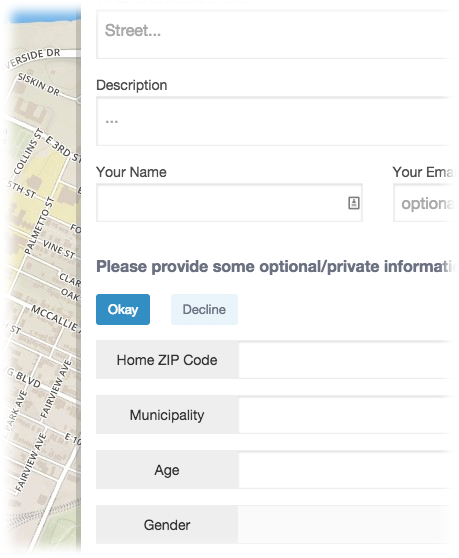
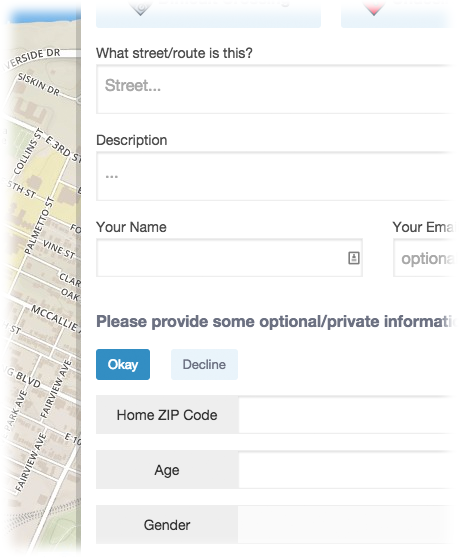
remove municipality from bike network flavor

diff --git a/bike-network-improvements/details.html b/bike-network-improvements/details.html
@@ -55,7 +55,7 @@
       <h3>Understand the rider's perspective.</h3>
       <p class="">Participants share their local knowledge and experience in descriptive freeform text.</p>
       <h3>Find out who's participating.</h3>
-      <p class="">Participants leave their name, and can optionally provide private information: email address, ZIP code, municipality, age, gender.</p>
+      <p class="">Participants leave their name, and can optionally provide private information: email address, ZIP code, age, and gender.</p>
       <div class="panel radius">
         <h5>Need to collect different info?</h5>
         <p>No problem. We can configure your form to collect exactly what you need. <a href="mailto:hello@openplans.org{# {{ settings.PLANBOX_CONTACT_EMAIL }} #}" class="open-intercom"><strong>Contact&nbsp;Us</strong></a></p>

diff --git a/bike-network-improvements/jstemplates/place-form.html b/bike-network-improvements/jstemplates/place-form.html
@@ -86,14 +86,6 @@
           </div>
           <div class="row collapse prefix-radius">
             <div class="small-3 columns">
-              <label for="private-municipality" class="prefix">Municipality</label>
-            </div>
-            <div class="small-9 columns">
-              <input type="text" name="private-municipality" id="private-municipality" pattern="\d*" data-sticky />
-            </div>
-          </div>
-          <div class="row collapse prefix-radius">
-            <div class="small-3 columns">
               <label for="private-age" class="prefix">Age</label>
             </div>
             <div class="small-9 columns">
